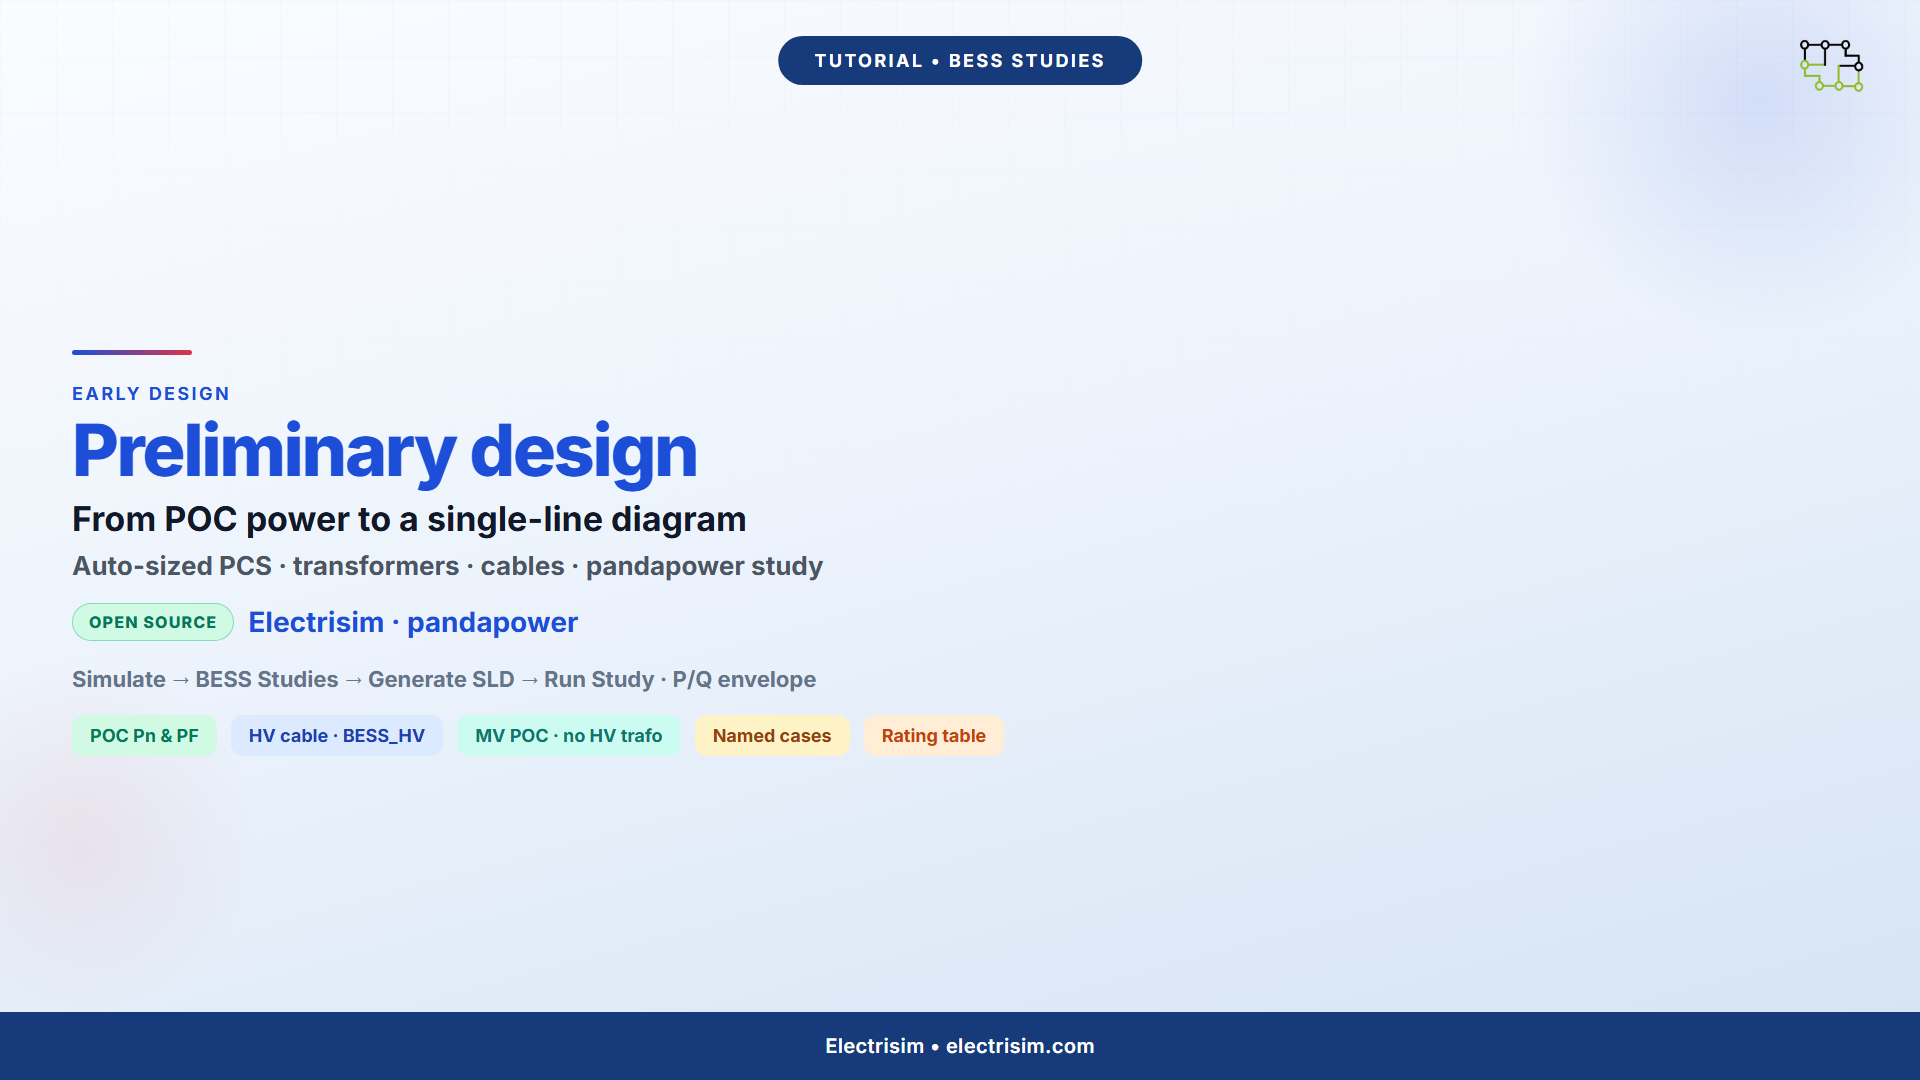
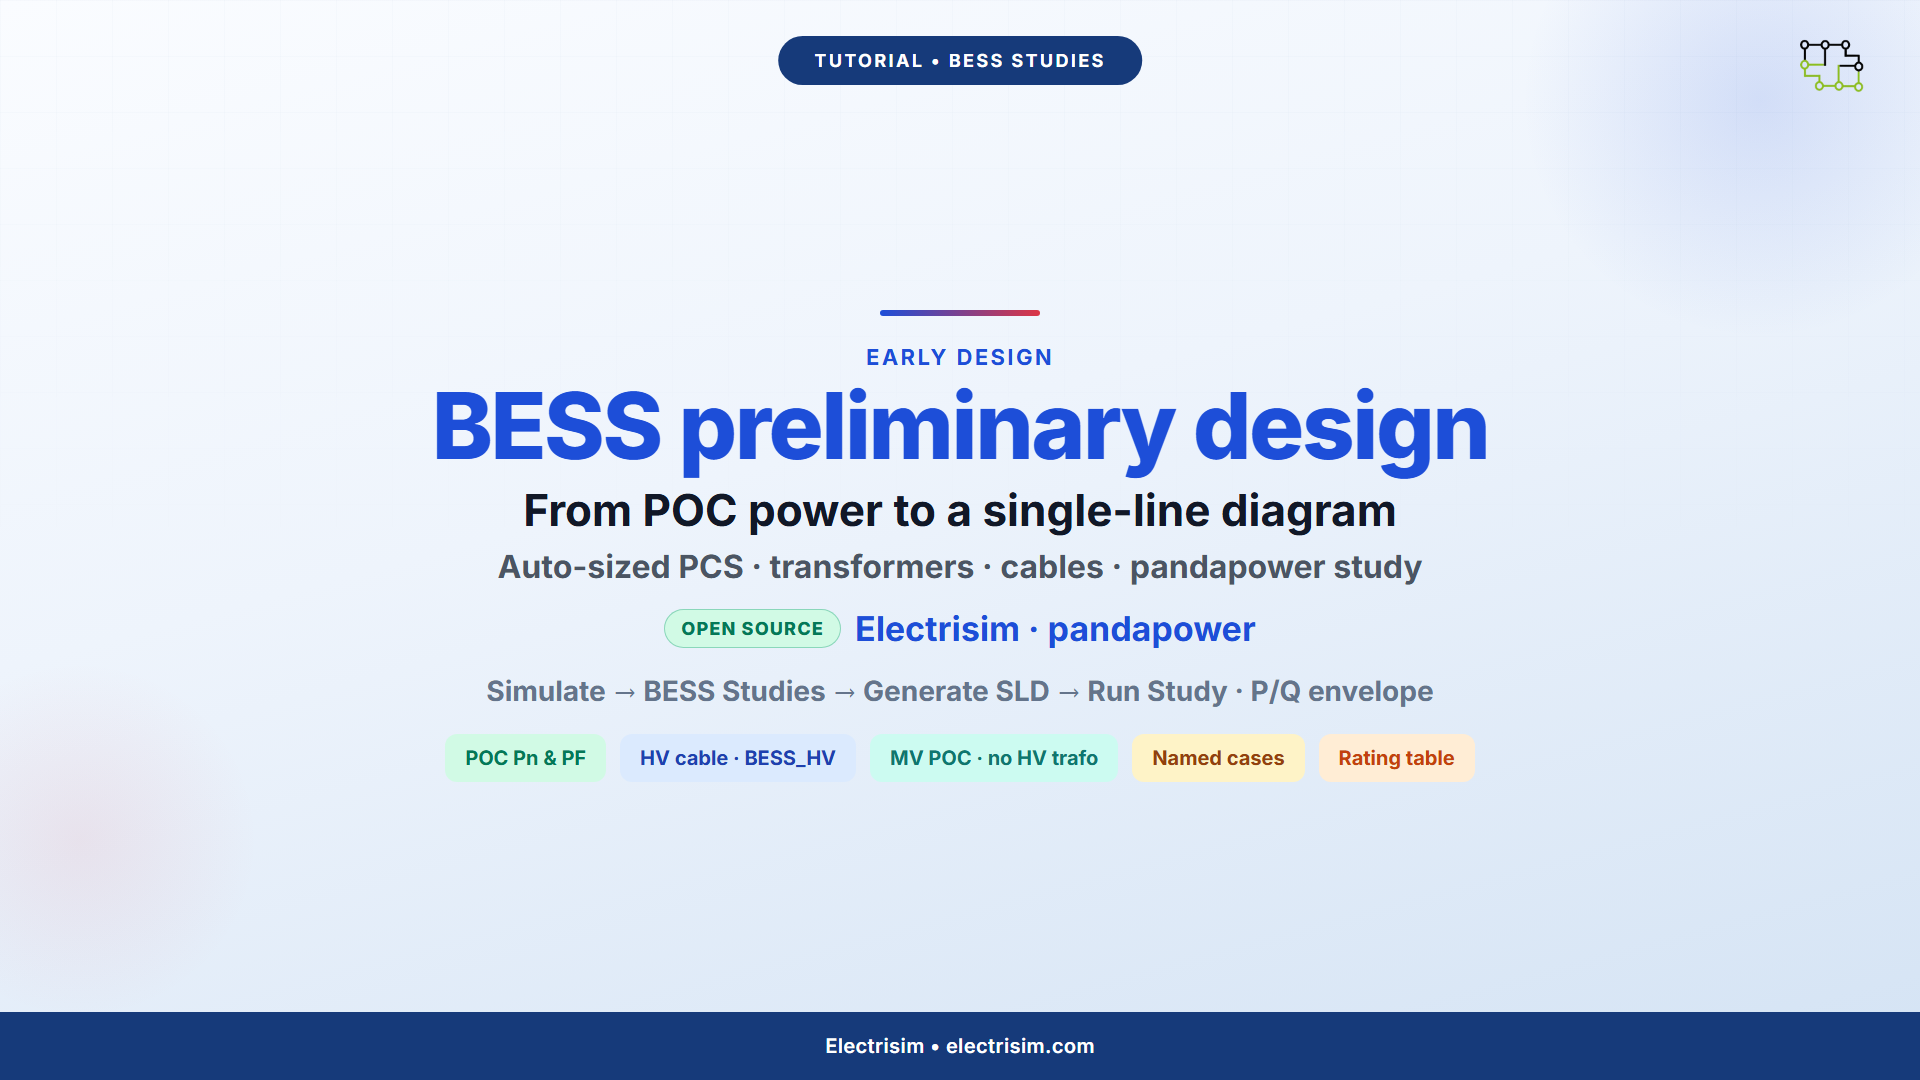
Update the BESS preliminary design video script and Clipchamp title card.

Changed region(s): [[0.0312, 0.3056, 0.7812, 0.7333], [0.4375, 0.275, 0.5625, 0.3361]]

diff --git a/src/main/webapp/templates/tutorials/clipchamp/bess_preliminary_design_intro.html b/src/main/webapp/templates/tutorials/clipchamp/bess_preliminary_design_intro.html
@@ -184,19 +184,22 @@
     }
     .slide-title .title-hero {
       position: absolute;
-      inset: 118px 72px 92px;
+      inset: 100px 56px 88px;
       z-index: 3;
       display: flex;
       align-items: center;
+      justify-content: center;
     }
     .slide-title .title-stack {
       display: flex;
       flex-direction: column;
-      align-items: flex-start;
-      text-align: left;
+      align-items: center;
+      text-align: center;
+      width: 100%;
+      max-width: 1680px;
     }
     .slide-title .study-kicker {
-      font-size: 18px;
+      font-size: 22px;
       font-weight: 700;
       letter-spacing: 2.4px;
       text-transform: uppercase;
@@ -204,7 +207,7 @@
       margin-bottom: 12px;
     }
     .slide-title .compliance-line {
-      font-size: 72px;
+      font-size: 92px;
       font-weight: 800;
       letter-spacing: -2.4px;
       line-height: 0.95;
@@ -212,14 +215,14 @@
       margin-bottom: 14px;
     }
     .slide-title .topic-line {
-      font-size: 34px;
+      font-size: 44px;
       font-weight: 700;
       color: var(--text);
       line-height: 1.2;
       margin-bottom: 10px;
     }
     .slide-title .farm-line {
-      font-size: 26px;
+      font-size: 32px;
       font-weight: 700;
       color: var(--muted);
       margin-bottom: 22px;
@@ -228,13 +231,14 @@
       display: inline-flex;
       align-items: center;
       gap: 14px;
-      font-size: 28px;
+      font-size: 34px;
       font-weight: 700;
       color: var(--royal);
       margin-bottom: 22px;
+      justify-content: center;
     }
     .slide-title .oss-pill {
-      font-size: 16px;
+      font-size: 18px;
       font-weight: 800;
       letter-spacing: 1.2px;
       text-transform: uppercase;
@@ -245,18 +249,25 @@
       border-radius: 999px;
     }
     .slide-title .tech-line {
-      font-size: 22px;
+      font-size: 28px;
       font-weight: 700;
       color: var(--slate);
-      margin-bottom: 22px;
-      max-width: 1100px;
+      margin-bottom: 26px;
+      max-width: 1500px;
     }
     .slide-title .title-accent {
-      width: 120px;
-      height: 5px;
+      width: 160px;
+      height: 6px;
       background: linear-gradient(90deg, var(--royal), #dc3545);
       border-radius: 3px;
-      margin: 0 0 28px;
+      margin: 0 auto 28px;
+    }
+    .slide-title .badges {
+      justify-content: center;
+    }
+    .slide-title .badge {
+      font-size: 20px;
+      padding: 12px 20px;
     }
   </style>
 </head>
@@ -274,7 +285,7 @@
       <div class="title-stack">
         <div class="title-accent"></div>
         <div class="study-kicker">Early design</div>
-        <div class="compliance-line">Preliminary design</div>
+        <div class="compliance-line">BESS preliminary design</div>
         <div class="topic-line">From POC power to a single-line diagram</div>
         <div class="farm-line">Auto-sized PCS · transformers · cables · pandapower study</div>
         <div class="oss-line">

diff --git a/src/main/webapp/templates/tutorials/BESS_PRELIMINARY_DESIGN_VIDEO_SCRIPT.md b/src/main/webapp/templates/tutorials/BESS_PRELIMINARY_DESIGN_VIDEO_SCRIPT.md
@@ -7,6 +7,8 @@
 **Target length:** ~8–10 minutes  
 **Tone:** solution-manager / early-design walkthrough — parameters, auto-generated SLD, optional HV cable and MV POC, pandapower study
 
+**Clipchamp text to speech:** paste [`BESS_PRELIMINARY_DESIGN_CLIPCHAMP.txt`](BESS_PRELIMINARY_DESIGN_CLIPCHAMP.txt). That file is spoken words only. Do not paste this markdown file into text to speech. The asterisks here are notes for you, not words for the voice.
+
 ## Demo numbers (say these on camera)
 
 | Input | Value |
@@ -53,80 +55,43 @@ Drag these 1920×1080 PNGs onto the timeline (source HTML is kept if you need to
 
 ---
 
-## Voice-over script
+## Voice-over for Clipchamp
+
+Do not paste this section. Open [`BESS_PRELIMINARY_DESIGN_CLIPCHAMP.txt`](BESS_PRELIMINARY_DESIGN_CLIPCHAMP.txt) and paste that file into Clipchamp text to speech.
+
+The markdown file keeps timing and on-screen cues. The text file is the same narration without asterisks, arrows, or quote marks, so the voice does not read formatting aloud.
 
 ### 0:00–0:12 · Title slide
 
-> Today we use **BESS Preliminary Design** in open-source **Electrisim**.  
-> You enter the agreed **active power at the point of connection** and the **grid-code power factor** — and Electrisim **builds the plant single-line diagram** for you, then runs **named load-flow cases**, **rating checks**, and a **P/Q capability envelope** at the POC.  
-> We will also show two real site layouts: an **HV cable** between the DSO POC and the customer substation, and a **direct MV connection** when there is **no HV/MV transformer**.
+On screen: title PNG.
 
 ### 0:12–0:28 · Agenda slide
 
-> Six steps. Set **POC power and ratings**. **Generate the diagram**. Add an **HV cable** when the POC is not at the BESS site. Switch to **MV POC** without the HV transformer. **Run the study**. Then read one result that often surprises people — **POC megawatts are not the sum of the PCS**.
+On screen: agenda PNG.
 
-### 0:28–2:30 · Open the wizard and set parameters *(screen: Electrisim)*
+### 0:28–2:30 · Wizard parameters
 
-> Open Electrisim in the browser. Start from a **blank diagram** — or open the **Utility-scale BESS** template if you already use it.  
-> Go to **Simulate → BESS Studies → BESS Preliminary Design**.  
->
-> Under **POC / Grid**, enter **50 megawatts** as **active power at POC / Pn** and **0.95** as the **grid-code power factor**. Reactive power at the POC is computed: **Q equals Pn times tan of arccos PF** — unless you tick **Specify Q directly** because the operator gave you Q in megavar.  
-> Set **POC voltage** to **132 kilovolts** and **MV collection** to **33 kilovolts**. **Umin, Unom, and Umax** are the **grid operating voltages** for the study cases — for example **0.95, 1.00, and 1.05 per unit**. **Plant voltage min and max** — often **0.90 to 1.10** — control **pass/fail colours** on the diagram.  
->
-> Under **PCS / BESS**, set **four** storage units. **PCS MVA, Pmax, the POC transformer, string transformers, and cable thermal rating** are **auto-sized** from Pn, power factor, unit count, Umin, aux load, and whether you use a **two-winding** or **three-winding skid** — until you type a value yourself. If you change Pn later, use **Reset ratings to auto-size** to hand control back to the auto-sizer.  
-> **Battery DC Pmax** tightens the AC storage P limit on the diagram — it does **not** supply reactive power; **Q comes from the PCS MVA circle**.  
->
-> Scroll to **HV/MV transformer**. Leave **Include HV/MV transformer** **ticked** for the first diagram. OLTC tap range and band are here; **Tap position sweep** is optional and off by default.  
-> **HV cable to BESS site** stays **off** for now. **MV cables** and **auxiliary load** can stay at defaults for this demo.
+On screen: Simulate, BESS Studies, BESS Preliminary Design. Fill 50 MW, 0.95, 132 kV, 33 kV, 4 units. Point at the auto-filled PCS ratings without typing.
 
-**On-screen cue:** Simulate → BESS Studies → BESS Preliminary Design. Fill 50 MW, 0.95, 132 kV, 33 kV, 4 units. Point at auto-filled PCS MVA / Pmax without typing. Mention amber undersize note only if you deliberately under-size a field.
+### 2:30–3:45 · Generate the diagram
 
-### 2:30–3:45 · Generate / Update SLD *(screen: diagram)*
+On screen: Generate or Update SLD. Slow pan from the grid, through POC HV and the transformer, to one string.
 
-> Click **Generate / Update SLD**. The wizard hides so you can inspect the canvas — use the restore chip to return to inputs.  
->
-> Top to bottom: **External Grid** → **POC_HV** → **POC_Transformer** with **OLTC** → **MV collection bus** → auxiliary load → for each string an **MV cable**, **MV/LV transformer**, **LV bus**, **PCS inverter**, **DC bus**, and **battery rack**. The PCS is the **Storage** element for AC load-flow; the DC island is drawn but not coupled in pandapower.  
-> Click **Generate** again after a small change — existing plant cells **update in place** using **bessPlantRole** tags; you are not redrawing from scratch.  
-> **Zoom to fit** before you run the study.
+### 3:45–4:45 · HV cable
 
-**On-screen cue:** Generate / Update SLD. Slow pan: Grid, POC_HV, HV/MV trafo, MV_Collection, one string to PCS + battery.
+On screen: tick the HV cable, regenerate, show POC HV, the cable, and BESS HV.
 
-### 3:45–4:45 · HV cable between DSO POC and plant *(screen: wizard + diagram)*
+### 4:45–5:30 · Direct MV connection
 
-> Many projects have the **contractual POC at the DSO substation** and the **HV/MV transformer at the customer site**. Re-open the wizard.  
-> Under **HV cable to BESS site**, tick **HV cable between grid POC and plant substation**. Set **length**, **R and X per kilometre**, and **thermal kA** — or accept the auto-sized kA from plant MVA and HV voltage. Generate again.  
->
-> The chain becomes **POC_HV → HV_Cable → BESS_HV → POC_Transformer → MV collection**.  
-> **Named cases and the P/Q envelope still refer to POC_HV** — the contractual POC. The cable is a real **line** in the pandapower model: you will see **loading** on **HV_Cable** and a **voltage difference** between **POC_HV** and **BESS_HV** under export.  
-> For the main study demo, turn the HV cable **off** again and regenerate so the diagram stays compact — or keep it on if you want to show both buses in the voltage profile.
+On screen: untick Include HV to MV transformer, set about 20 kV, show POC MV, then turn the HV transformer back on before the study.
 
-**On-screen cue:** Enable hv cable; regenerate; highlight vertical line and BESS_HV bar; optional: results voltage profile row for BESS_HV after a run.
+### 5:30–7:45 · Run the study
 
-### 4:45–5:30 · Direct MV POC — no HV/MV transformer *(screen: wizard + diagram)*
+On screen: Run Study, click a named case so the diagram fills, then the P Q chart.
 
-> Some BESS sites connect at **11 to 33 kilovolts** with **no step-up transformer** at the POC. Untick **Include HV/MV transformer**. Set **MV collection voltage** to your POC voltage — for example **20 kV**. Generate.  
->
-> The topology is **External Grid → POC_MV** — the collection bus **is** the POC. There is **no HV transformer**, **no OLTC**, **no tap sweep**, and **no HV cable** option. The study still uses **POC_MV** for achieved P/Q and the envelope.  
-> For the rest of the video, **tick the HV transformer back on** and regenerate the **132 kV / 33 kV** plant so results match what most utility-scale viewers expect.
+### 7:45–8:10 · Close
 
-**On-screen cue:** hvTrafoEnabled off; mvVoltage 20; POC_MV label; ext grid edge to MV bar only; then restore HV layout for study segment.
-
-### 5:30–7:45 · Run Study and read results *(screen: progress + results dialog + SLD)*
-
-> Click **Run Study**. The progress log walks through **named load-flow cases**, **rating verification**, and the **P/Q envelope**.  
->
-> In the results window, open **named cases**. **Pass/fail** is thermal and voltage against your plant band — separate from whether the **POC target** is met. Click **Unom_Export_Capacitive** — or another row — and watch **result boxes** fill on the SLD. Click a **limiting element** or **bus name** to select it on the canvas.  
->
-> Open the **P/Q chart**. The grey rectangle is your **grid-code PF band** at the PCS **±Pn** you sized for — the envelope can extend further where the plant P limit allows. On the **U–Q chart**, charge and discharge at full active power show whether the plant covers the **U–Q band** from your power factor.  
-> Here is the insight: **POC P is export-positive into the grid** and includes **auxiliaries and losses**. It is **not** the sum of PCS discharge ratings. **Reactive power at the POC** is set by **inverter MVA**, transformer **vk**, cables, and aux — **raising battery DC power does not add Mvar** if the PCS is already on its **MVA circle**.  
-> Optionally **zoom and pan** the charts, pick a **point on the envelope**, and compare **dispatch P at PCS** versus **P at POC** in the hover text.
-
-**On-screen cue:** Run Study; KPI row; named case click → green POC box with P/Q; P/Q chart + one sentence on POC vs sum(PCS); optional U–Q band.
-
-### 7:45–8:10 · Outro *(voice; freeze on diagram or results)*
-
-> That is **BESS Preliminary Design** in Electrisim — from **POC power and power factor** to an **auto-generated SLD**, optional **HV cable** and **MV POC** layouts, and a **pandapower** early-design study with **ratings** and **P/Q capability** at the grid connection.  
-> Documentation lives at **electrisim.com**. Build and iterate your own plant at **electrisim.com**.
+On screen: freeze on the diagram or the results window.
 
 ---
 
